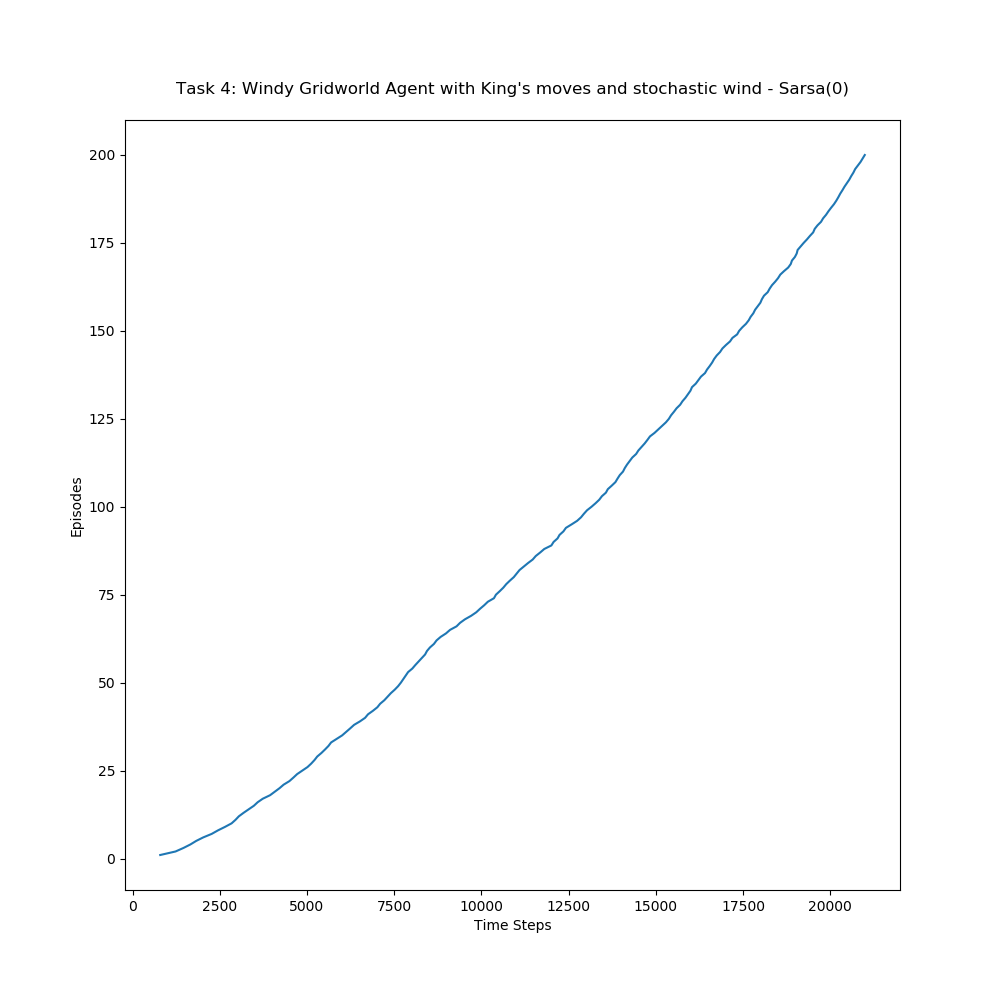
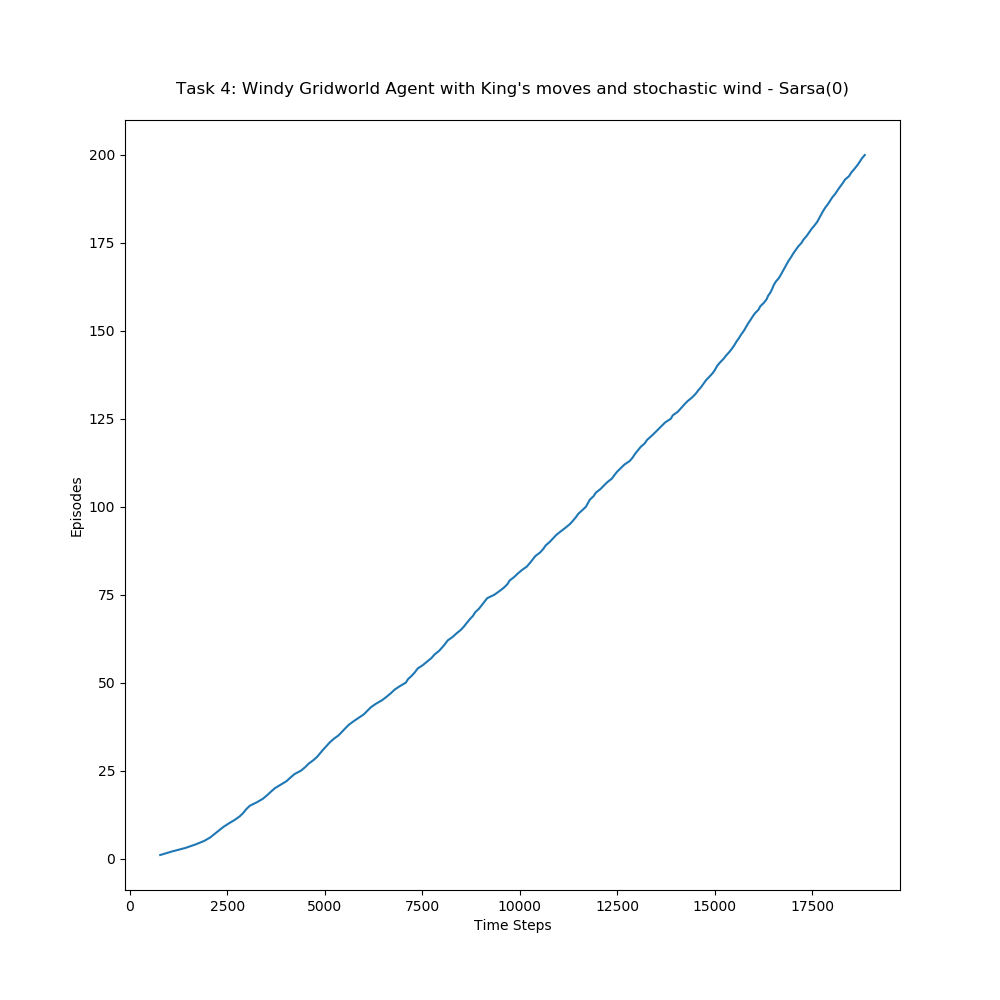
modified README

diff --git a/cs747-pa3/gridworld.py b/cs747-pa3/gridworld.py
@@ -20,18 +20,18 @@ class WindyGridworld:
         # define moves
         self.F = []
         if stochastic:
-            d = lambda: np.random.choice([-1, 0, 1])
-            self.F.append(lambda i, j: (min(max(i - 1 - self.wind[j] + d(), 0), self.h - 1), j))  # N
-            self.F.append(lambda i, j: (max(min(i + 1 - self.wind[j] + d(), self.h - 1), 0), j))  # S
-            self.F.append(lambda i, j: (min(max(i - self.wind[j] + d(), 0), self.h - 1), min(j + 1, self.w - 1)))  # E
-            self.F.append(lambda i, j: (min(max(i - self.wind[j] + d(), 0), self.h - 1), max(j - 1, 0)))  # W
-            self.F.append(lambda i, j: (min(max(i - 1 - self.wind[j] + d(), 0), self.h - 1),
+            d = lambda k: bool(self.wind[k])*np.random.choice([-1, 0, 1])
+            self.F.append(lambda i, j: (min(max(i - 1 - self.wind[j] + d(j), 0), self.h - 1), j))  # N
+            self.F.append(lambda i, j: (max(min(i + 1 - self.wind[j] + d(j), self.h - 1), 0), j))  # S
+            self.F.append(lambda i, j: (min(max(i - self.wind[j] + d(j), 0), self.h - 1), min(j + 1, self.w - 1)))  # E
+            self.F.append(lambda i, j: (min(max(i - self.wind[j] + d(j), 0), self.h - 1), max(j - 1, 0)))  # W
+            self.F.append(lambda i, j: (min(max(i - 1 - self.wind[j] + d(j), 0), self.h - 1),
                                         min(j + 1, self.w - 1)))  # NE
-            self.F.append(lambda i, j: (max(min(i + 1 - self.wind[j] + d(), self.h - 1), 0),
+            self.F.append(lambda i, j: (max(min(i + 1 - self.wind[j] + d(j), self.h - 1), 0),
                                         min(j + 1, self.w - 1)))  # SE
-            self.F.append(lambda i, j: (max(min(i + 1 - self.wind[j] + d(), self.h - 1), 0),
+            self.F.append(lambda i, j: (max(min(i + 1 - self.wind[j] + d(j), self.h - 1), 0),
                                         max(j - 1, 0)))  # SW
-            self.F.append(lambda i, j: (min(max(i - 1 - self.wind[j] + d(), 0), self.h - 1),
+            self.F.append(lambda i, j: (min(max(i - 1 - self.wind[j] + d(j), 0), self.h - 1),
                                         max(j - 1, 0)))  # NW
         else:
             self.F.append(lambda i, j: (max(i - 1 - self.wind[j], 0), j))  # N

diff --git a/cs747-pa3/README.md b/cs747-pa3/README.md
@@ -2,12 +2,26 @@
 
 This is an implementation of Example 6.5, Exercise 6.9 and Exercise 6.10 from the book [Reinforcement Learning: An Introduction by Andrew Barto and Richard S. Sutton](https://web.stanford.edu/class/psych209/Readings/SuttonBartoIPRLBook2ndEd.pdf "Reinforcement Learning: An Introduction"). This work also compares the performance of Sarsa, Q-Learning and Expected Sarsa with Full Bootstrapping.  
 
+<!-- ![](images/gridworld.png) -->
+<img src="images/gridworld.png" alt="gridworld" width="400"/>
+
 The following tasks have been implemented:  
-* Task 1: 
+-  **Task 2**: Sarsa(0) with constant wind and 4 moves (baseline)  
+-  **Task 3**: Sarsa(0) with constant wind and King's moves (8 moves total)  
+-  **Task 4**: Sarsa(0) with stochastic wind and King's moves  
+-  **Task 5**: Comparision of Sarsa, Q-Learning and Expected Sarsa with Full Bootstrapping  
+
 
 To the run the program on your machine, navigate to this folder in bash/cmd and run:
 ```bash
-python main.py --task i # i the task number from {2,3,4,5}
+python main.py --task i # i is the task number from {2,3,4,5}
 # or
 python main.py # runs task 5 by default
+```
+This will run the agent for 200 episodes and generate the plot of episodes vs cumulative time-steps.  
+Hyper Parameters: 
+```python
+alpha = 0.5 # learning rate
+epsilon = 0.1 # for epsilon-greedy choice
+gamma = 1 # no discounting 
 ```
